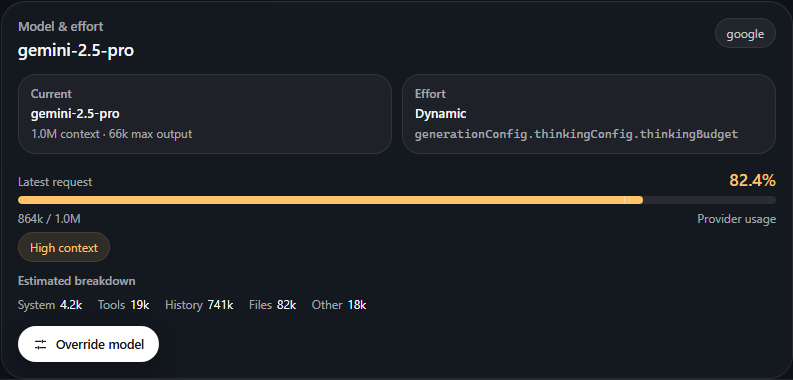
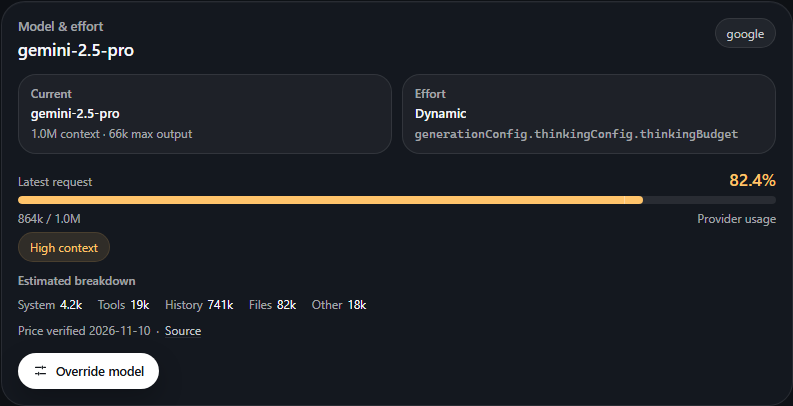
fix: show price evidence for every model

diff --git a/ui/src/lib/screens/FlightsScreen.svelte b/ui/src/lib/screens/FlightsScreen.svelte
@@ -921,6 +921,20 @@
                   <ContextMeter meter={modelState.context} label={t('context.latest')} />
                 {/if}
 
+                {#if currentPricing}
+                  <p class="model-card__evidence" data-model-evidence>
+                    {#if currentPricing.verifiedOn}
+                      {t('model.verified', { date: currentPricing.verifiedOn })}
+                    {:else}
+                      {t('model.notVerified')}
+                    {/if}
+                    <span aria-hidden="true">·</span>
+                    <a href={currentPricing.source} target="_blank" rel="noreferrer">
+                      {t('model.source')}
+                    </a>
+                  </p>
+                {/if}
+
                 <div class="model-card__actions">
                   {#if canOverride}
                     <button

diff --git a/ui/tests/e2e/phase9.spec.ts b/ui/tests/e2e/phase9.spec.ts
@@ -79,6 +79,12 @@ test.describe('model, effort, and context', () => {
       'Estimated breakdown',
     );
     await expect(card.locator('.context-meter__breakdown')).toContainText('System');
+    const evidence = card.locator('[data-model-evidence]');
+    await expect(evidence).toContainText('Price verified 2026-11-10');
+    await expect(evidence.locator('a')).toHaveAttribute(
+      'href',
+      'https://ai.google.dev/gemini-api/docs/pricing',
+    );
     await shotOf(page, '.model-card', 'flight-model-effort.png');
 
     // The override is opt-in and the confirmation step explains exactly what

diff --git a/ui/src/app.css b/ui/src/app.css
@@ -3414,6 +3414,26 @@ pre {
   border-color: color-mix(in srgb, var(--warn) 45%, var(--hairline));
 }
 
+.model-card__evidence {
+  display: flex;
+  flex-wrap: wrap;
+  gap: 4px 6px;
+  margin: -4px 0 0;
+  color: var(--text-faint);
+  font-size: max(var(--text-min), calc(10.5px * var(--font-scale)));
+  line-height: 1.4;
+}
+
+.model-card__evidence a {
+  color: var(--text-soft);
+  text-decoration-color: var(--hairline);
+  text-underline-offset: 2px;
+}
+
+.model-card__evidence a:hover {
+  color: var(--text);
+}
+
 .model-card__arrow {
   padding: 0 4px;
   color: var(--warn);

diff --git a/ui/src/lib/i18n/catalog.ts b/ui/src/lib/i18n/catalog.ts
@@ -247,7 +247,8 @@ const en = {
   'model.switchManualToast': 'This agent has no verified model switch.',
   'model.contextWindow': '{tokens} context',
   'model.maxOutput': '{tokens} max output',
-  'model.verified': 'Verified {date}',
+  'model.verified': 'Price verified {date}',
+  'model.notVerified': 'Price not re-verified',
   'model.source': 'Source',
   'model.deprecated': 'Deprecated',
   'model.overrideClears': 'Clears when the flight ends.',

diff --git a/crates/cockpit-core/src/cost.rs b/crates/cockpit-core/src/cost.rs
@@ -691,6 +691,36 @@ mod tests {
     }
 
     #[test]
+    fn every_bundled_row_carries_price_evidence() {
+        for row in BUILT_IN_PRICING.iter() {
+            assert!(
+                row.source.starts_with("https://"),
+                "{} has no source URL",
+                row.model
+            );
+            if row.model == "claude-sonnet-4" {
+                assert!(
+                    row.verified_on.is_none(),
+                    "the retired row must not claim a fresh verification"
+                );
+                continue;
+            }
+            let verified = row.verified_on.as_deref().unwrap_or("");
+            assert_eq!(verified.len(), 10, "{} has no verifiedOn date", row.model);
+            assert!(
+                verified.as_bytes()[4] == b'-' && verified.as_bytes()[7] == b'-',
+                "{} has a malformed verifiedOn date",
+                row.model
+            );
+            assert!(
+                row.input_per_mtok.is_some() && row.output_per_mtok.is_some(),
+                "{} has no price evidence",
+                row.model
+            );
+        }
+    }
+
+    #[test]
     fn normalizes_dated_and_prefixed_models() {
         assert_eq!(normalize_model_id("openai/gpt-4.1-2025-04-14"), "gpt-4.1");
         assert_eq!(

diff --git a/docs/models.md b/docs/models.md
@@ -9,10 +9,12 @@ root and is compiled into the binary with `include_str!`; it is not fetched at
 runtime.
 
 Every value in the table was read from the provider's own documentation on
-`2026-11-10`. The `source` URL and `verifiedOn` date are part of each row and are
-shown in the UI. When a value could not be verified it is stored as `"unknown"`
-(JSON `null`), never as a plausible number. A model with an unknown input or
-output price is shown as **Price unknown** and is never counted as `$0.00`.
+`2026-11-10`. Each row carries its own `source` URL and `verifiedOn` date, and
+section 1.1 lists both for every model. The **Model & effort** card shows
+**Price verified <date>** and links to that source. When a value could not be
+verified it is stored as `"unknown"` (JSON `null`), never as a plausible number.
+A model with an unknown input or output price is shown as **Price unknown** and
+is never counted as `$0.00`.
 
 ## 1. The verified table
 
@@ -90,6 +92,31 @@ rates; off-peak usage is billed at half. `deepseek-flash` accepts the legacy ids
 `deepseek-v4-flash`, `deepseek-v4-flash-vision-exp`, and
 `deepseek-v4.1-flash` as aliases. When DeepSeek is reached through its
 Anthropic-compatible endpoint, the effort field is `output_config.effort`.
+
+### 1.1 Evidence for every row
+
+Every row in `models.json` appears below with the URL it was read from, the
+`verifiedOn` date, and the rates that date supports. The UI shows the date as
+**Price verified <date>**; a row with no date is shown as **Price not
+re-verified**. Amounts are USD per million tokens.
+
+| Model | Source | Verified on | Price evidence |
+| --- | --- | --- | --- |
+| `gpt-5.5` | https://developers.openai.com/api/docs/models/gpt-5.5 | 2026-11-10 | $5.00 input, $0.50 cache read, $30.00 output. Over 272K tokens: $10.00 / $1.00 / $45.00 for the whole session. |
+| `gpt-5.4` | https://developers.openai.com/api/docs/models/gpt-5.4 | 2026-11-10 | $2.50 input, $0.25 cache read, $15.00 output. Over 272K tokens: $5.00 / $0.50 / $22.50 for the whole session. |
+| `gpt-5.4-mini` | https://developers.openai.com/api/docs/models/gpt-5.4-mini | 2026-11-10 | $0.75 input, $0.075 cache read, $4.50 output. No long-context tier. |
+| `gpt-4.1` | https://developers.openai.com/api/docs/models/gpt-4.1 | 2026-11-10 | $2.00 input, $0.50 cache read, $8.00 output. Deprecated; no effort control. |
+| `claude-fable-5-2` | https://platform.claude.com/docs/en/about-claude/pricing | 2026-11-10 | $8.00 input, $0.20 cache read, $10.00 5-minute cache write, $40.00 output. |
+| `claude-opus-5-5` | https://platform.claude.com/docs/en/about-claude/pricing | 2026-11-10 | $4.00 input, $0.20 cache read, $5.00 5-minute cache write, $20.00 output. |
+| `claude-sonnet-5-5` | https://platform.claude.com/docs/en/about-claude/pricing | 2026-11-10 | $2.00 input, $0.10 cache read, $2.50 5-minute cache write, $10.00 output. |
+| `claude-haiku-5-5` | https://platform.claude.com/docs/en/about-claude/pricing | 2026-11-10 | $0.10 input, $0.01 cache read, $0.125 5-minute cache write, $0.50 output. Over 100K tokens per request: $0.50 / $0.05 / $0.625 / $2.50. |
+| `claude-sonnet-4` | https://platform.claude.com/docs/en/about-claude/pricing | — (retired) | $3.00 input, $0.30 cache read, $3.75 cache write, $15.00 output. Retained from an older snapshot and not re-verified; Anthropic lists this generation as retired. |
+| `gemini-4-argon` | https://ai.google.dev/gemini-api/docs/pricing | 2026-11-10 | $2.00 input, $0.10 cache read, $10.00 output. Standard rate through 2026-11-30; $4.00 / $20.00 from 2026-12-01. |
+| `gemini-3.8-flash` | https://ai.google.dev/gemini-api/docs/pricing | 2026-11-10 | $0.75 input, $0.075 cache read, $3.75 output. Promotional through 2026-12-31; $1.50 / $7.50 from 2027-01-01. |
+| `gemini-3.6-flash` | https://ai.google.dev/gemini-api/docs/pricing | 2026-11-10 | $0.75 input, $0.075 cache read, $3.75 output. Promotional through 2026-12-31; $1.50 / $7.50 from 2027-01-01. |
+| `gemini-2.5-pro` | https://ai.google.dev/gemini-api/docs/pricing | 2026-11-10 | $1.25 input, $0.125 cache read, $10.00 output. Over 200K tokens per request: $2.50 / $0.25 / $15.00. Deprecated; routes to Gemini 3.8 Flash from 2026-12-01. |
+| `deepseek-flash` | https://api-docs.deepseek.com/quick_start/pricing | 2026-11-10 | Peak $0.30 input, $0.006 cache read, $1.20 output. Off-peak is half these rates. |
+| `deepseek-v4-pro` | https://api-docs.deepseek.com/quick_start/pricing | 2026-11-10 | Peak $1.32 input, $0.044 cache read, $3.96 output. Off-peak is half these rates. |
 
 ## 2. Pricing and relative cost
 
